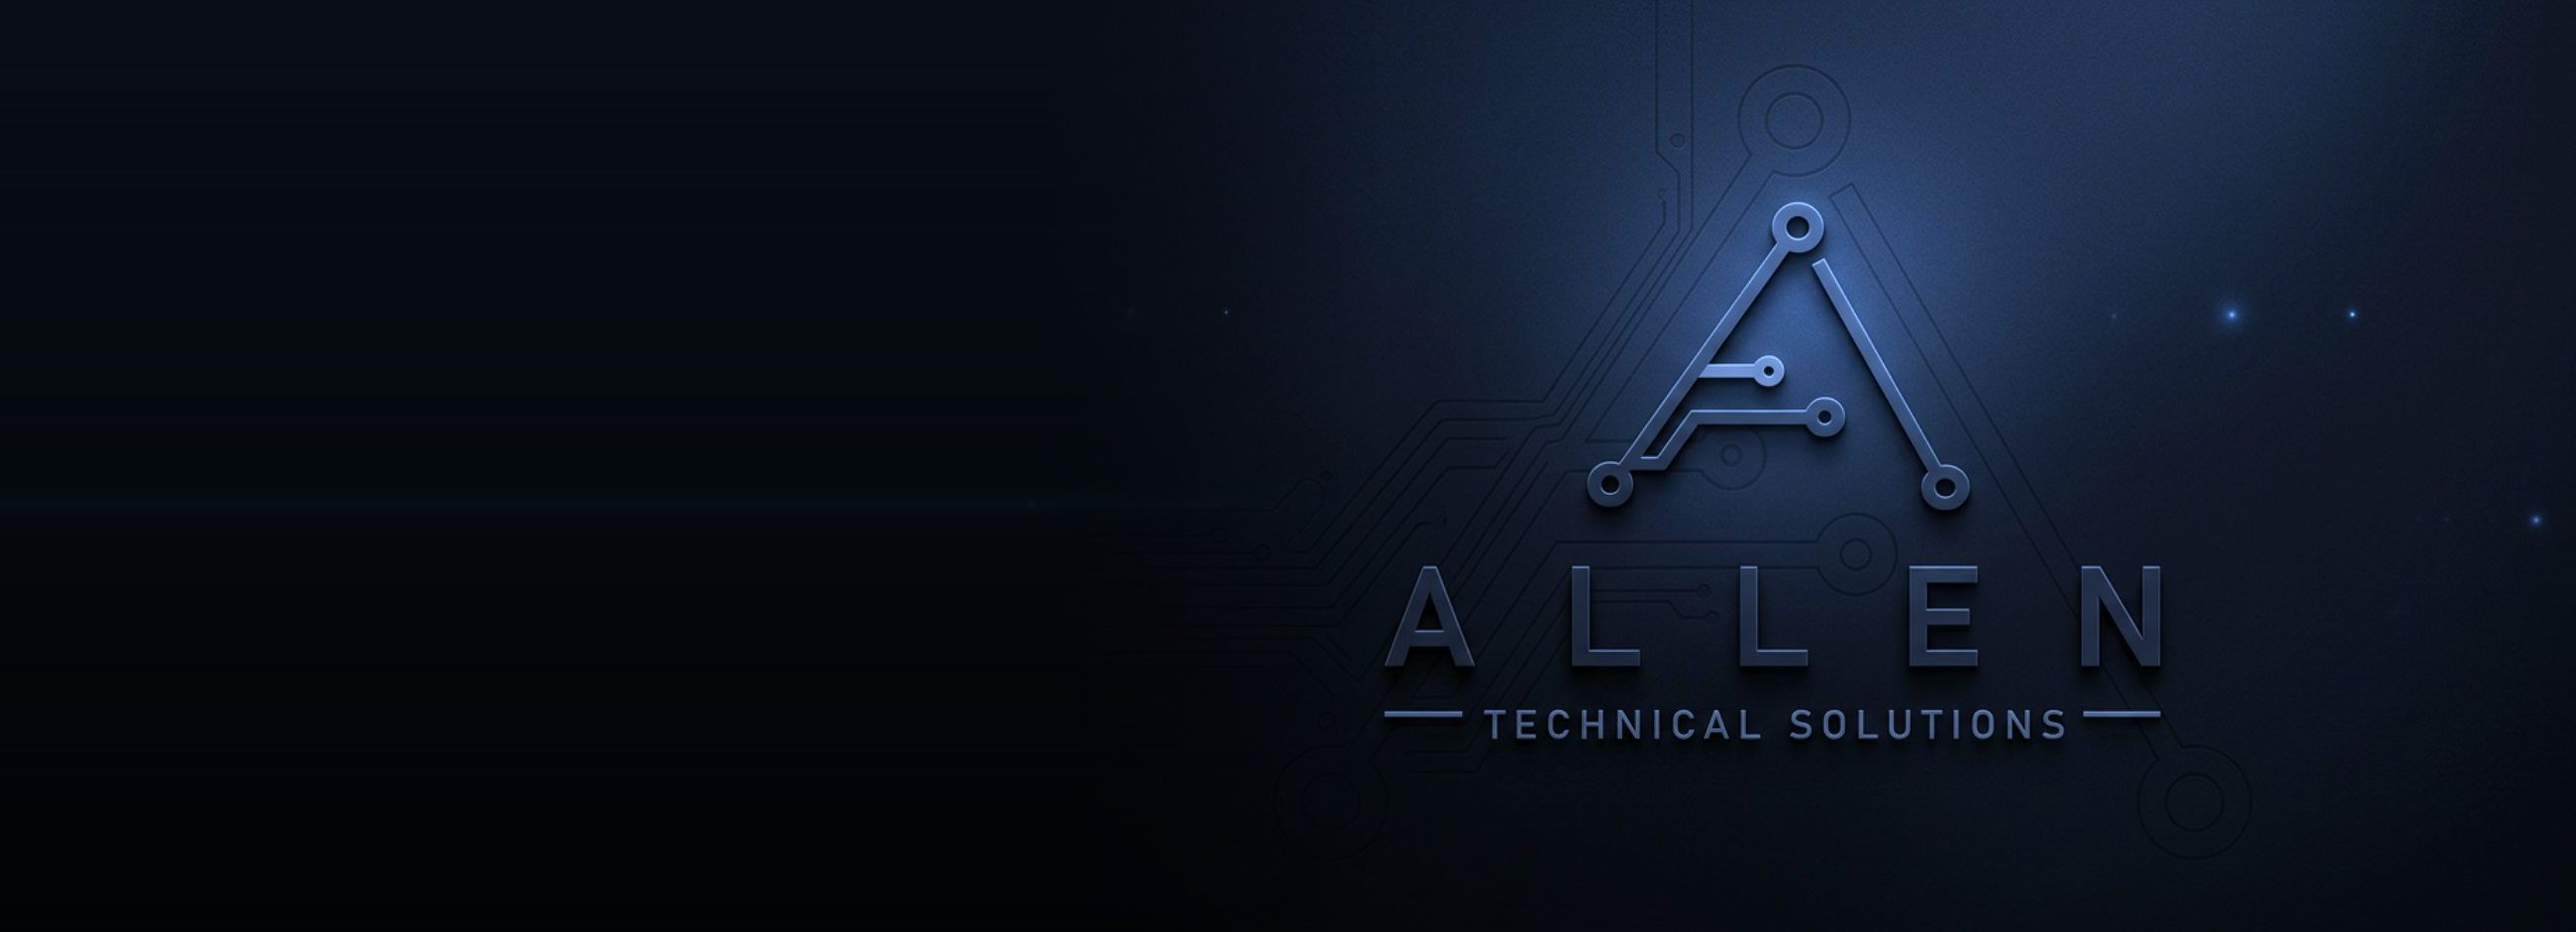
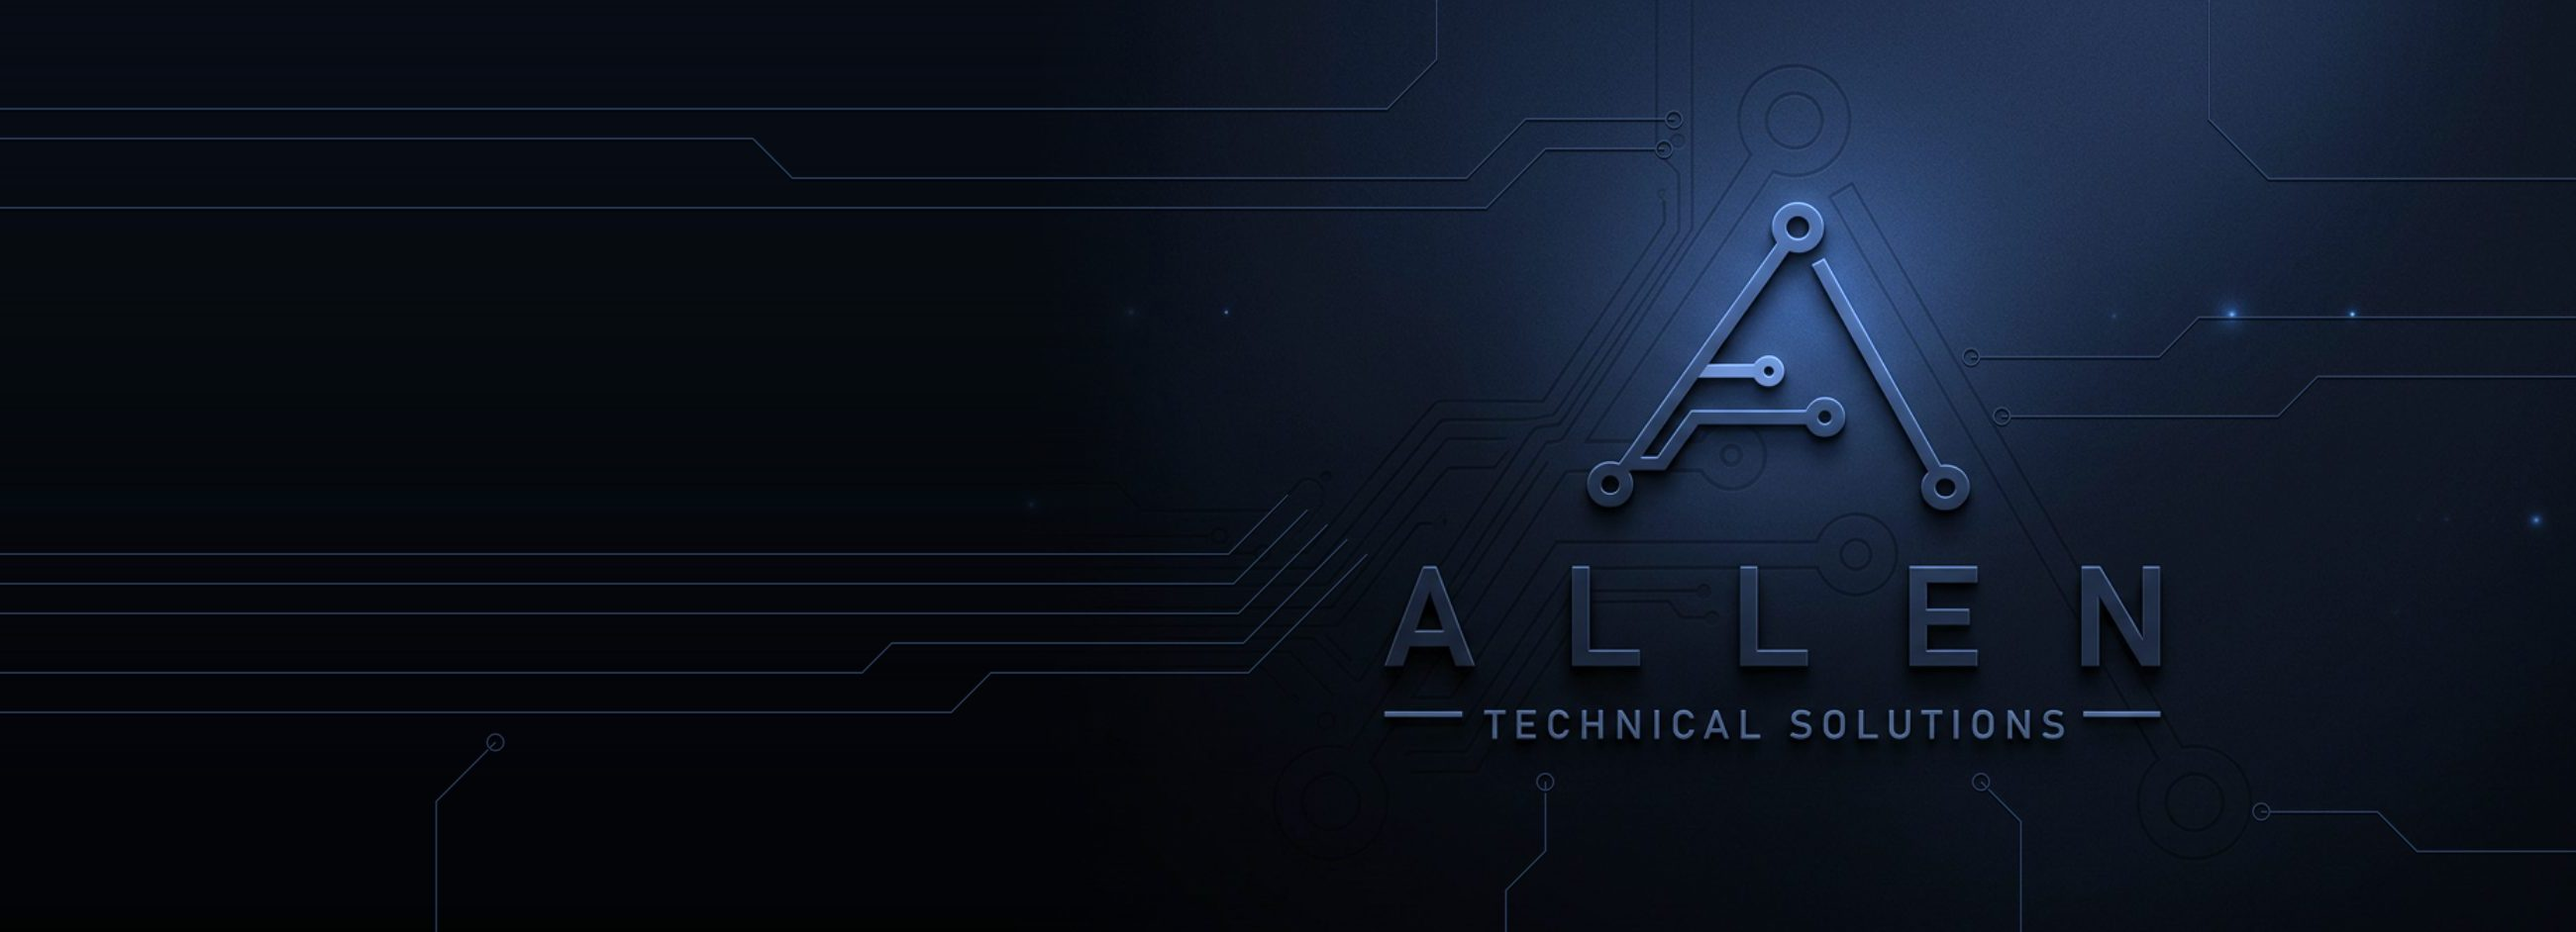
Bake edge-to-edge circuit traces into the hero art, clear of the lettering
Claude-Session: https://claude.ai/code/session_01PyvgGyZ52HjhP3BF4n87De

Changed region(s): [[0.872, 0.862, 0.9031, 0.8928]]

diff --git a/assets/css/style.css b/assets/css/style.css
@@ -224,13 +224,12 @@ p { margin: 0 0 1em; }
 /* Full-bleed hero: the logo artwork is the background, copy sits over the dark left side */
 .hero-full {
   background:
-    linear-gradient(90deg, rgba(7,13,24,.92) 0%, rgba(7,13,24,.72) 34%, rgba(7,13,24,.15) 58%, rgba(7,13,24,0) 70%),
+    linear-gradient(90deg, rgba(7,13,24,.8) 0%, rgba(7,13,24,.55) 34%, rgba(7,13,24,.1) 58%, rgba(7,13,24,0) 70%),
     url("../img/hero-bg.jpg") right center / cover no-repeat,
     var(--navy-950);
 }
 .hero-full .wrap { grid-template-columns: 1fr; min-height: clamp(520px, 44vw, 680px); padding-top: 72px; padding-bottom: 72px; }
 .hero-full .hero-copy { max-width: 600px; }
-.hero-full .circuit-bg { opacity: .2; }
 .circuit-bg { position: absolute; inset: 0; opacity: .14; pointer-events: none; }
 
 /* Page hero (inner pages) */
@@ -460,15 +459,9 @@ p { margin: 0 0 1em; }
 /* Narrow screens: logo art sits centred at the top, copy below it */
 @media (max-width: 1024px) {
   .hero-full {
-    background: url("../img/hero-mobile.jpg") center top / auto 400px no-repeat, var(--navy-950);
+    background: url("../img/hero-mobile.jpg") center top / 100% auto no-repeat, var(--navy-950);
   }
-  .hero.hero-full .wrap { min-height: 0; padding-top: 360px; padding-bottom: 64px; }
-}
-@media (max-width: 720px) {
-  .hero-full {
-    background: url("../img/hero-mobile.jpg") center top / auto 270px no-repeat, var(--navy-950);
-  }
-  .hero.hero-full .wrap { padding-top: 240px; }
+  .hero.hero-full .wrap { min-height: 0; padding-top: calc(58.8vw + 8px); padding-bottom: 64px; }
 }
 @media (max-width: 720px) {
   .utility-tag { display: none; }

diff --git a/index.html b/index.html
@@ -201,14 +201,6 @@
 
 <main id="main">
 <section class="hero hero-full">
-  <svg class="circuit-bg" viewBox="0 0 1200 400" preserveAspectRatio="xMidYMid slice" aria-hidden="true" fill="none" stroke="#8DBBFF" stroke-width="1.2">
-  <path d="M0 80h220l40 40h180l30-30h140"/><circle cx="614" cy="90" r="6"/>
-  <path d="M0 300h160l50-50h120"/><circle cx="336" cy="250" r="6"/>
-  <path d="M1200 60h-240l-40 40H780"/><circle cx="774" cy="100" r="6"/>
-  <path d="M1200 330h-180l-60-60H840l-30 30h-90"/><circle cx="714" cy="300" r="6"/>
-  <path d="M900 0v80l40 40v90"/><circle cx="940" cy="216" r="6"/>
-  <path d="M420 400v-70l-40-40v-60"/><circle cx="380" cy="224" r="6"/>
-</svg>
   <div class="wrap">
     <div class="hero-copy">
       <span class="hero-eyebrow">Engineering · Consulting · Software</span>

diff --git a/src/pages/index.html b/src/pages/index.html
@@ -3,7 +3,6 @@ description: Engineering services, technical consulting, custom software, mobile
 keywords: home engineering firm consulting software apps websites
 ---
 <section class="hero hero-full">
-  {{circuit}}
   <div class="wrap">
     <div class="hero-copy">
       <span class="hero-eyebrow">Engineering · Consulting · Software</span>

diff --git a/src/make_hero.py b/src/make_hero.py
@@ -1,0 +1,78 @@
+"""Builds the hero backgrounds from the logo art: widens it to the left and extends the
+circuit traces out to every edge, keeping them clear of the A and the ALLEN wordmark."""
+from PIL import Image, ImageDraw, ImageFilter
+
+SRC = "assets/img/logo-hero.jpg"
+EXT = 1000           # pixels added on the left for desktop copy
+S = 2                # supersample factor for smooth lines
+
+im = Image.open(SRC).convert("RGB")
+W, H = im.size
+
+# 1. widen: stretched edge colour on the left, short feather into the art
+edge = im.crop((0, 0, 30, H)).resize((1, H)).resize((EXT + 200, H))
+base = Image.new("RGB", (W + EXT, H))
+base.paste(edge, (0, 0))
+mask = Image.new("L", (W, H), 255)
+mp = mask.load()
+F = 200
+for x in range(F):
+    for y in range(H):
+        mp[x, y] = int(255 * x / F)
+base.paste(Image.composite(im, base.crop((EXT, 0, EXT + W, H)), mask), (EXT, 0))
+
+# 2. traces, in original-art coordinates (x offset by EXT on the wide canvas)
+o = EXT
+traces = [
+    # left bundle continues down-left, then straight out to the left edge
+    [(1300, 500), (1240, 560), (0, 560)],
+    [(1320, 515), (1245, 590), (0, 590)],
+    [(1340, 530), (1250, 620), (0, 620)],
+    [(1360, 545), (1255, 650), (900, 650), (870, 680), (0, 680)],
+    [(1380, 560), (1260, 680), (1000, 680), (960, 720), (0, 720)],
+    # upper-left: branches off the vertical traces above the A, out to the left edge
+    [(1680, 150), (1560, 150), (1500, 210), (0, 210)],
+    [(1690, 120), (1540, 120), (1480, 180), (800, 180), (760, 140), (0, 140)],
+    [(1450, 0), (1450, 60), (1400, 110), (0, 110)],
+    # right side: off the big triangle's right edge, out to the right edge
+    [(o + 1021, 420), (o + 1300, 420), (o + 1340, 380), (W + EXT, 380)],
+    [(o + 990, 360), (o + 1180, 360), (o + 1220, 320), (W + EXT, 320)],
+    [(o + 1283, 820), (o + 1400, 820), (o + 1440, 860), (W + EXT, 860)],
+    [(o + 1230, 0), (o + 1230, 120), (o + 1290, 180), (W + EXT, 180)],
+    # bottom: from under the wordmark to the bottom edge
+    [(o + 560, 790), (o + 560, 860), (o + 520, 900), (o + 520, H)],
+    [(o + 1000, 790), (o + 1040, 830), (o + 1040, H)],
+    [(500, 750), (440, 810), (440, H)],
+]
+nodes = [(1680, 150), (1690, 120),
+         (o + 1021, 420), (o + 990, 360), (o + 1283, 820), (o + 560, 790), (o + 1000, 790), (500, 750)]
+
+layer = Image.new("RGBA", ((W + EXT) * S, H * S), (0, 0, 0, 0))
+d = ImageDraw.Draw(layer)
+sc = lambda pts, dx=0, dy=0: [((x + dx) * S, (y + dy) * S) for x, y in pts]
+for t in traces:   # groove: dark shadow line, then a lit edge, like the embossed art
+    d.line(sc(t, 0, 2), fill=(0, 2, 6, 150), width=3 * S, joint="curve")
+    d.line(sc(t), fill=(62, 88, 134, 150), width=2 * S, joint="curve")
+for x, y in nodes:
+    r = 9
+    d.ellipse([((x - r) * S, (y - r + 2) * S), ((x + r) * S, (y + r + 2) * S)], outline=(0, 2, 6, 150), width=3 * S)
+    d.ellipse([((x - r) * S, (y - r) * S), ((x + r) * S, (y + r) * S)], outline=(60, 86, 130, 140), width=2 * S)
+layer = layer.resize((W + EXT, H), Image.LANCZOS).filter(ImageFilter.GaussianBlur(0.4))
+
+wide = base.convert("RGBA")
+wide.alpha_composite(layer)
+wide = wide.convert("RGB")
+wide.save("assets/img/hero-bg.jpg", quality=82, optimize=True, progressive=True)
+
+# 3. narrow screens: the art itself with traces, fading into the page at the bottom
+narrow = wide.crop((EXT, 0, EXT + W, H))
+bg = Image.new("RGB", (W, H), (7, 13, 24))
+m = Image.new("L", (W, H), 255)
+mp = m.load()
+FY = int(H * .22)
+for y in range(H - FY, H):
+    v = int(255 * (H - 1 - y) / FY)
+    for x in range(W):
+        mp[x, y] = v
+Image.composite(narrow, bg, m).save("assets/img/hero-mobile.jpg", quality=80, optimize=True, progressive=True)
+print("ok", wide.size)
